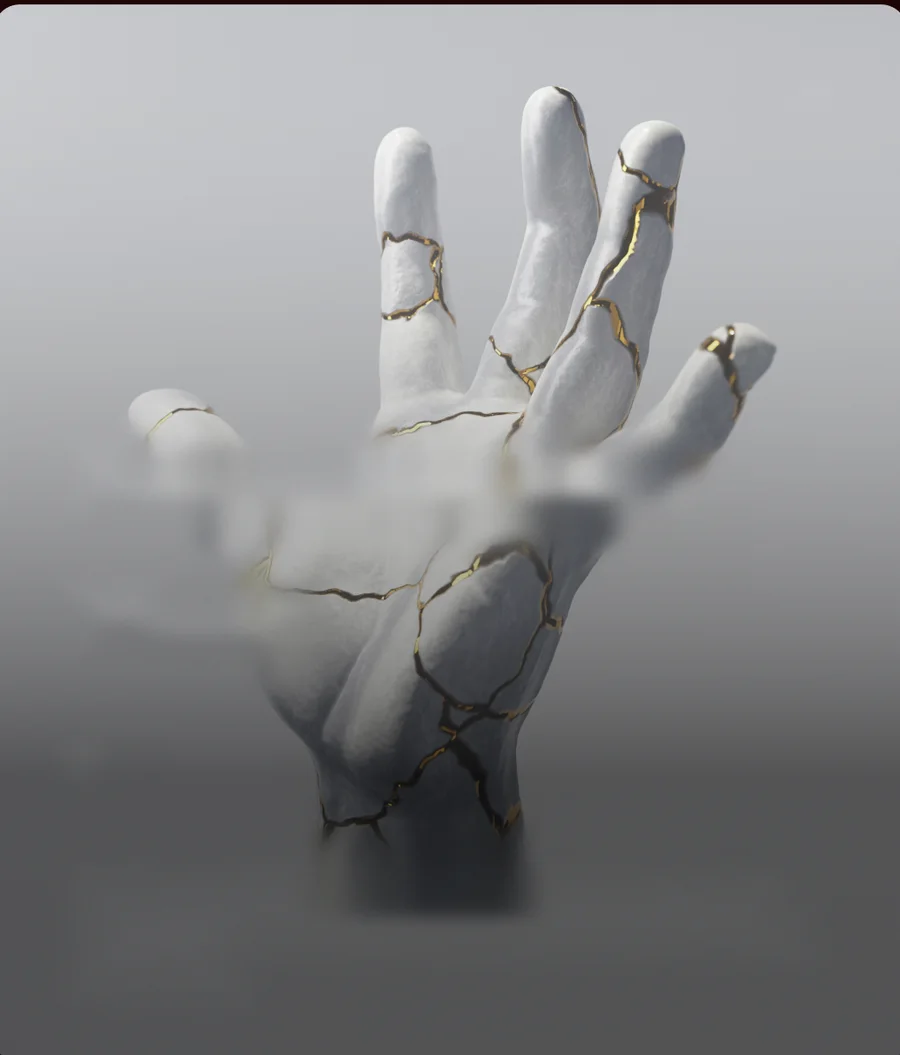
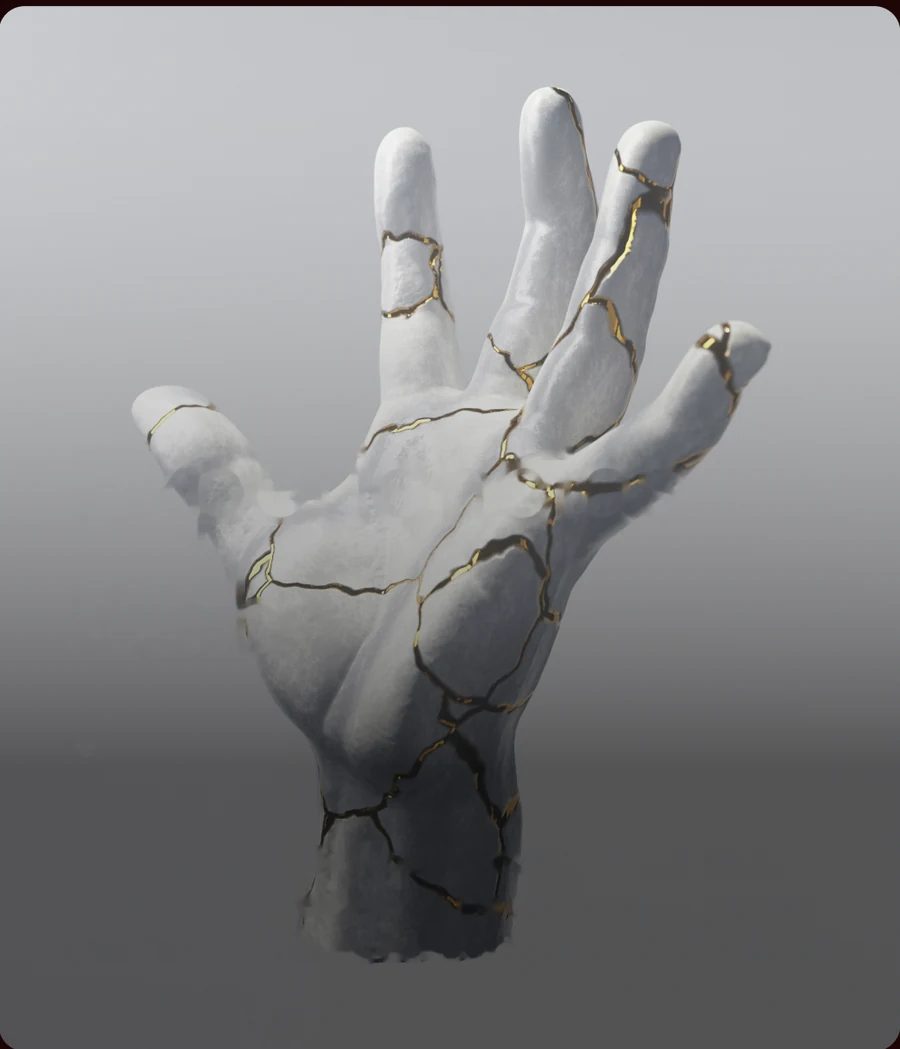
Quitar el manchon de las tarjetas de servicio: relleno por difusion
El blur estaba HORNEADO en los tres webp, no era CSS. Viene de cuando borre los
textos que las tarjetas traen impresos en el mockup, y se veia ahora porque acabo
de aclarar el velo que antes lo tapaba.

Dos intentos fallidos, anotados en el script para no repetirlos:
 1. Mezclar columnas vecinas (horizontal). Embarra justo lo que estas imagenes
    tienen de estructura — las estrias del templo, el canto del hombro — porque
    todo eso corre en vertical. Ese es el manchon que se veia.
 2. Interpolar en vertical. Recupera muchisimo pero deja escurrimientos: un trazo
    vertical como la 'l' de 'Software' mide 90px de alto por 12 de ancho, asi que
    rellenarlo a lo largo es lo peor posible.

Ninguna direccion fija sirve porque el trazo cambia de orientacion dentro de una
misma letra. Va difusion (Navier-Stokes): cada hueco se llena desde su frontera
mas cercana en cualquier direccion, y propaga la direccion de las lineas que
llegan al borde, que es lo que salva el estriado de las columnas. Como la mascara
son los TRAZOS y no las cajas de las letras, casi todos los huecos miden una
decena de pixeles.

La mascara sale de que el texto es blanco puro (255) y los sujetos no pasan de
249: umbral 246 los separa con 0.0-0.1% de contaminacion.

El grano se mide SOLO en las zonas sanas y planas. Midiendolo en toda la imagen,
los cantos del sujeto inflaban la cifra y el parche salia MAS ruidoso que su
entorno — paso en el intento 2. Ahora el parche queda al 56-72% de la nitidez de
[…]

diff --git a/index.html b/index.html
@@ -17,7 +17,7 @@
 <link rel="preload" href="fonts/NTDapperTrial-Regular.woff2" as="font" type="font/woff2" crossorigin>
 <link rel="preload" href="fonts/Jabin-BoldSwash2.woff2" as="font" type="font/woff2" crossorigin>
 <link rel="preload" href="fonts/OONeurealTrial-SemiMono.woff2" as="font" type="font/woff2" crossorigin>
-<link rel="stylesheet" href="css/styles.css?v=69">
+<link rel="stylesheet" href="css/styles.css?v=70">
 </head>
 <body>
 
@@ -412,6 +412,6 @@
 <script src="vendor/gsap.min.js" defer></script>
 <script src="vendor/ScrollTrigger.min.js" defer></script>
 <script src="vendor/lenis.min.js" defer></script>
-<script src="js/main.js?v=69" defer></script>
+<script src="js/main.js?v=70" defer></script>
 </body>
 </html>
